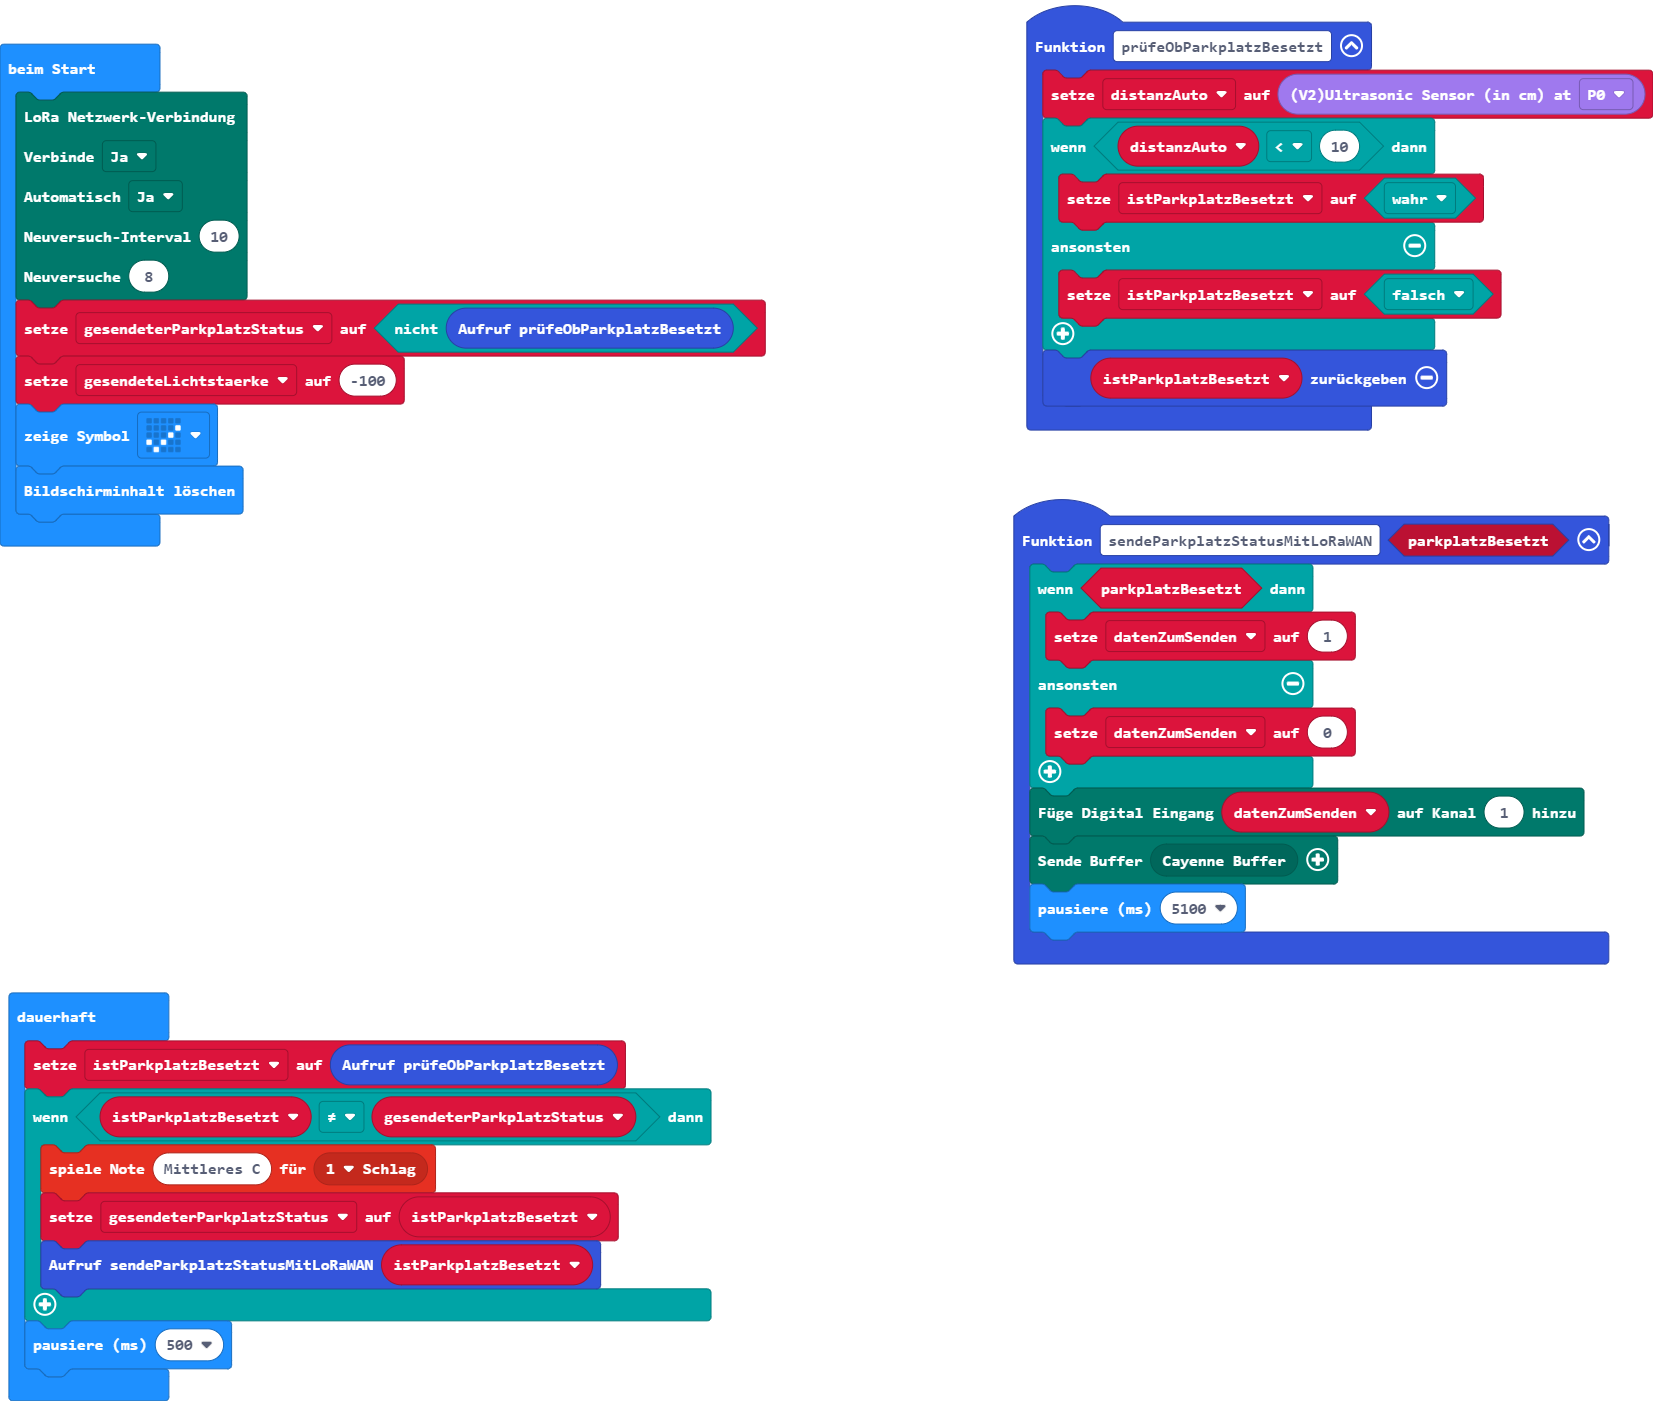
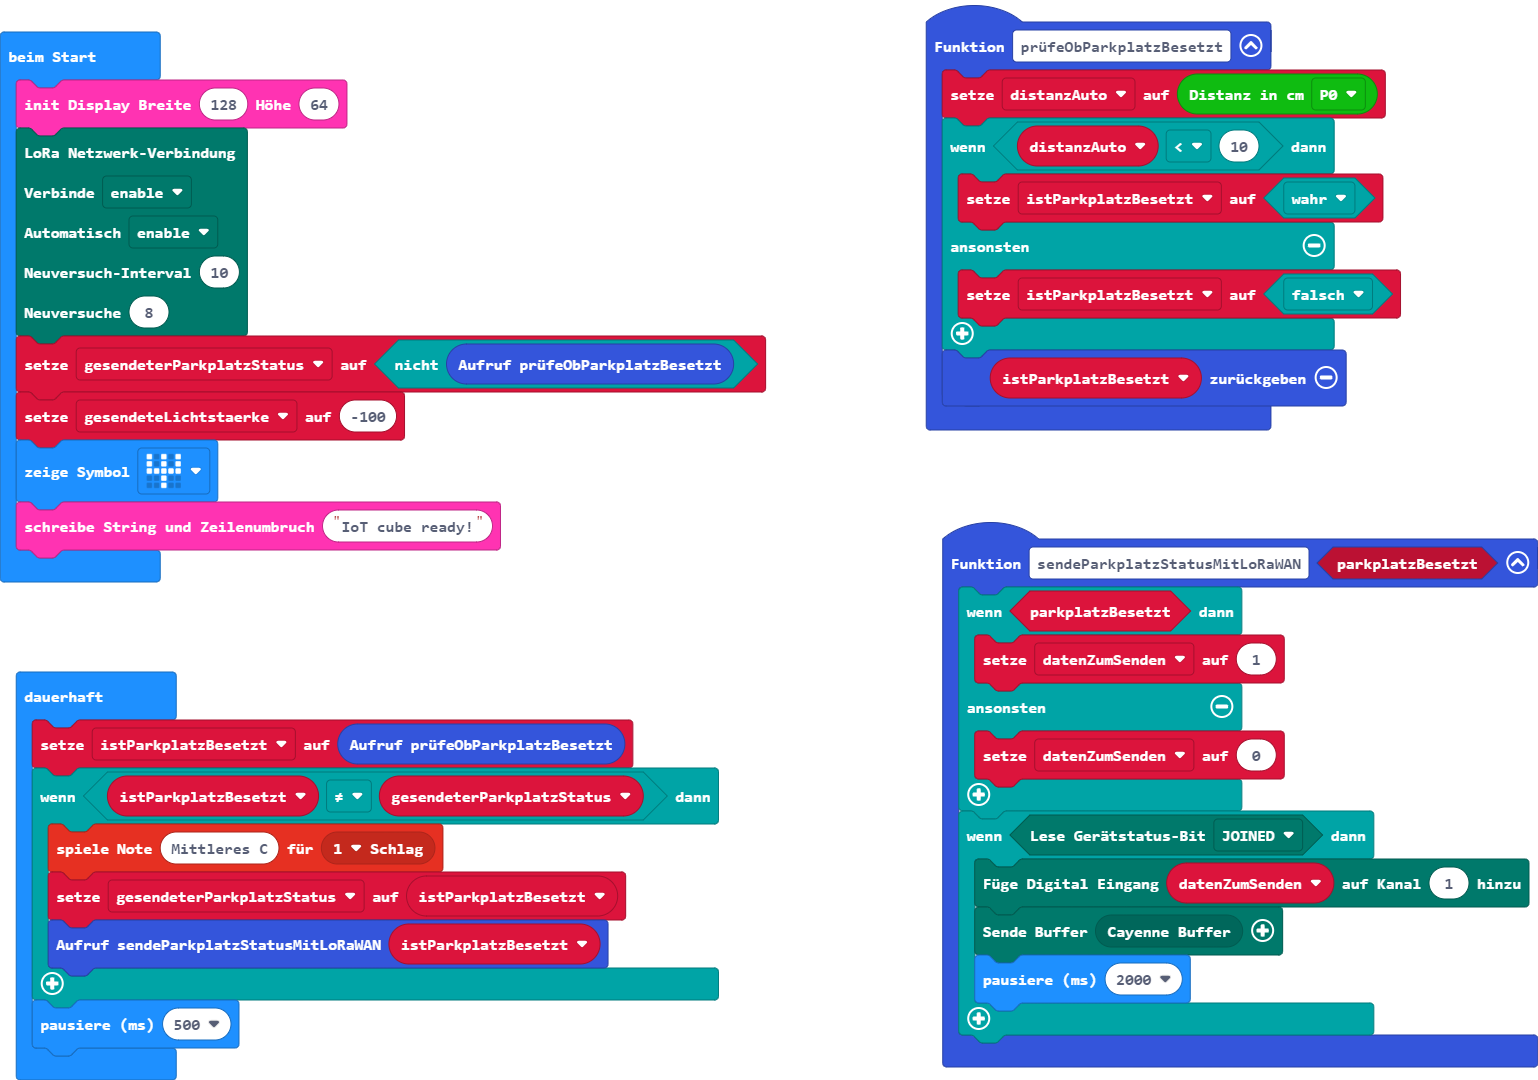
Smartfeld sensors and display added

diff --git a/main.ts b/main.ts
@@ -1,5 +1,5 @@
 function prüfeObParkplatzBesetzt () {
-    distanzAuto = grove.measureInCentimetersV2(DigitalPin.P0)
+    distanzAuto = smartfeldSensoren.measureInCentimetersV2(DigitalPin.P0)
     if (distanzAuto < 10) {
         istParkplatzBesetzt = true
     } else {
@@ -13,13 +13,16 @@ function sendeParkplatzStatusMitLoRaWAN (parkplatzBesetzt: boolean) {
     } else {
         datenZumSenden = 0
     }
-    IoTCube.addDigitalInput(datenZumSenden, 1)
-    IoTCube.SendBuffer(IoTCube.getCayenne())
-    basic.pause(5100)
+    if (IoTCube.getStatus(eSTATUS_MASK.JOINED)) {
+        IoTCube.addDigitalInput(datenZumSenden, 1)
+        IoTCube.SendBuffer(IoTCube.getCayenne())
+        basic.pause(2000)
+    }
 }
 let datenZumSenden = 0
 let istParkplatzBesetzt = false
 let distanzAuto = 0
+smartfeldAktoren.displayInit(128, 64)
 IoTCube.LoRa_Join(
 eBool.enable,
 eBool.enable,
@@ -28,8 +31,8 @@ eBool.enable,
 )
 let gesendeterParkplatzStatus = !(prüfeObParkplatzBesetzt())
 let gesendeteLichtstaerke = -100
-basic.showIcon(IconNames.Yes)
-basic.clearScreen()
+basic.showIcon(IconNames.Pitchfork)
+smartfeldAktoren.displayWriteStrNewLine("IoT cube ready!")
 basic.forever(function () {
     istParkplatzBesetzt = prüfeObParkplatzBesetzt()
     if (istParkplatzBesetzt != gesendeterParkplatzStatus) {
